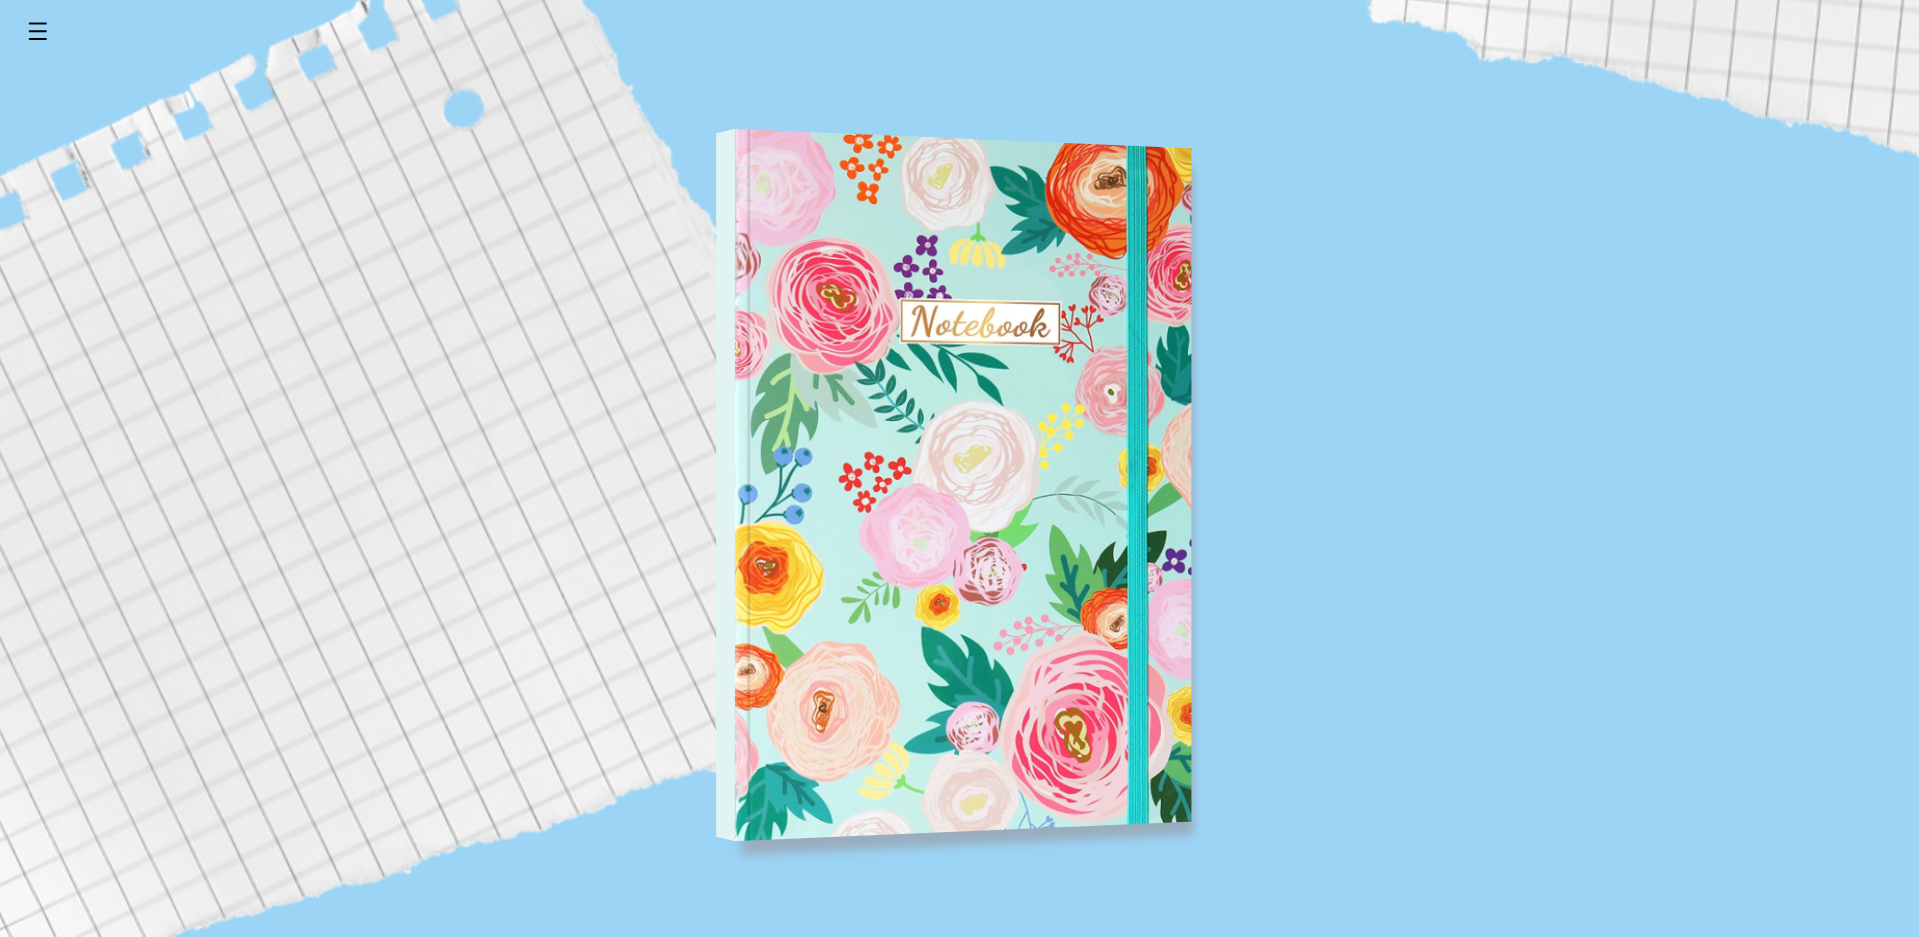
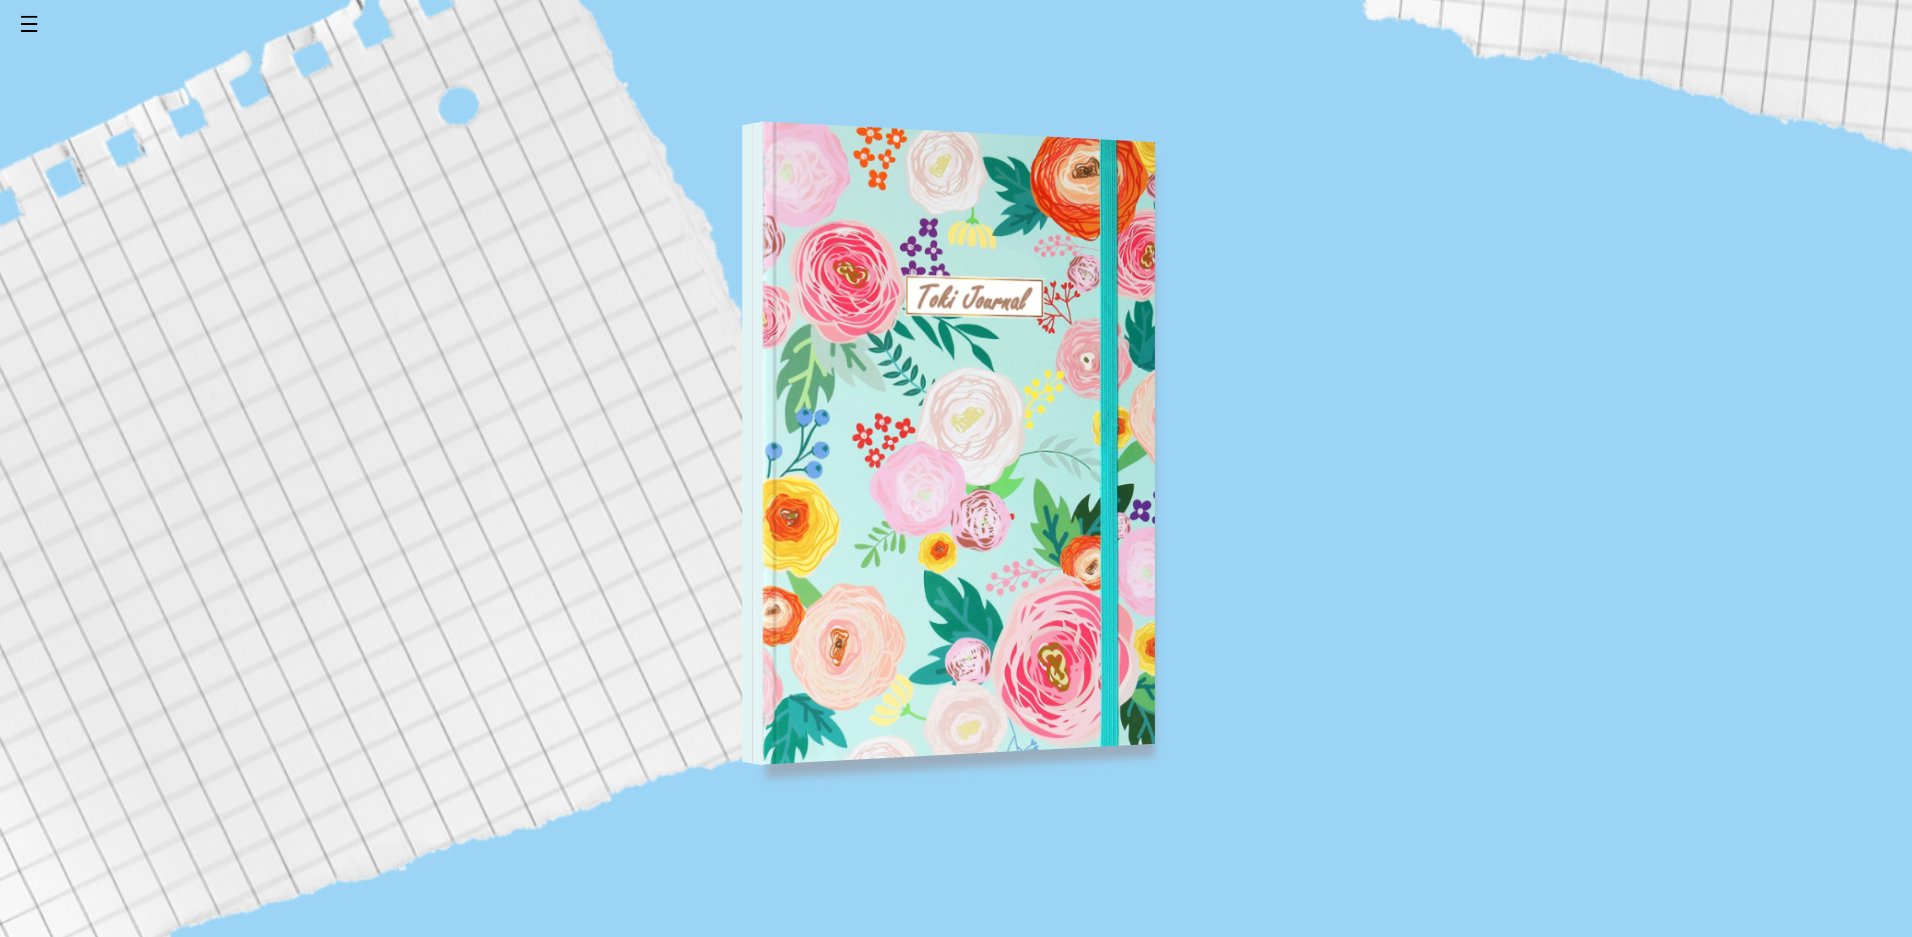
Last polishes (#100)
* fixed selectors on daily log test

* updated journal and readme

* update onboarding

diff --git a/public/__tests__/dailyLog.test.js b/public/__tests__/dailyLog.test.js
@@ -7,7 +7,7 @@ describe('Test daily log page functionality', () => {
   beforeAll(async() => { 
     await page.goto('http://127.0.0.1:8080/public/dailyLog.html');
   });
-/*
+
     // Click add bullet button to have bullets should in window 
     it('Test 1: should click on add bullet button and have bullets appear in window', async () => {
       await page.waitForSelector("#monContainer");
@@ -16,82 +16,82 @@ describe('Test daily log page functionality', () => {
         document.querySelector("#mon-add").click();
         document.querySelector("#mon-add").click();
         document.querySelector("#mon-add").click();
-        return document.querySelector("#mon > ul").children.length;
+        return document.querySelector("#mon > div > ul").children.length;
       });
       expect(numEntries).toBe(4);
     }, 20000);
 
     // Click trash icon to have bullet removed from window 
     it('Test 2: should click on trash icon to have bullet removed', async () => {
-      await page.waitForSelector("#mon > ul > div:nth-child(1) > li");
+      await page.waitForSelector("#mon > div > ul > div:nth-child(1) > li");
       let numEntries = await page.evaluate(() => {
         document.querySelector("#myDropDown > img.deleteImage").click();
         //return document.querySelector("#single-day > div.bigDayContent > h1").textContent;
-        return document.querySelector("#mon > ul").children.length;
+        return document.querySelector("#mon > div > ul").children.length;
       });
       expect(numEntries).toBe(3);
     }, 20000);
     
     // Click event (bookmark) icon to have bullet image changed in window 
     it('Test 3: should click on bookmark icon and have bullet changed', async () => {
-      await page.waitForSelector("#mon > ul > div:nth-child(1) > li");
+      await page.waitForSelector("#mon > div > ul > div:nth-child(1) > li");
       let entry = await page.evaluate(() => {
         document.querySelector("#myDropDown > img.eventImage").click();
         //return document.querySelector("#single-day > div.bigDayContent > h1").textContent;
-        return document.querySelector("#mon > ul > div:nth-child(1) > li").className;
+        return document.querySelector("#mon > div > ul > div:nth-child(1) > li").className;
       });
       expect(entry).toBe("event-list");
     }, 20000);
     
     // Click important (folder) icon to have bullet image changed in window 
     it('Test 4: should click on folder icon and have bullet changed', async () => {
-      await page.waitForSelector("#mon > ul > div:nth-child(1) > li");
+      await page.waitForSelector("#mon > div > ul > div:nth-child(1) > li");
       let entry = await page.evaluate(() => {
         document.querySelector("#myDropDown > img.importantImage").click();
-        return document.querySelector("#mon > ul > div:nth-child(1) > li").className;
+        return document.querySelector("#mon > div > ul > div:nth-child(1) > li").className;
       });
       expect(entry).toBe("important-list");
     }, 20000);
     
     // Click isnpiration (star) icon to have bullet image changed in window    
     it('Test 5: should click on star icon and have bullet changed', async () => {
-      await page.waitForSelector("#mon > ul > div:nth-child(1) > li");
+      await page.waitForSelector("#mon > div > ul > div:nth-child(1) > li");
       let entry = await page.evaluate(() => {
         document.querySelector("#myDropDown > img.inspirationImage").click();
-        return document.querySelector("#mon > ul > div:nth-child(1) > li").className;
+        return document.querySelector("#mon > div > ul > div:nth-child(1) > li").className;
       });
       expect(entry).toBe("inspiration-list");
     }, 20000);
     
     // Click event icon to have bullet image changed in window 
     it('Test 6: should click on event icon and have bullet changed', async () => {
-      await page.waitForSelector("#mon > ul > div:nth-child(1) > li");
+      await page.waitForSelector("#mon > div > ul > div:nth-child(1) > li");
       let entry = await page.evaluate(() => {
         document.querySelector("#myDropDown > img.eventImage").click();
         //return document.querySelector("#single-day > div.bigDayContent > h1").textContent;
-        return document.querySelector("#mon > ul > div:nth-child(1) > li").className;
+        return document.querySelector("#mon > div > ul > div:nth-child(1) > li").className;
       });
       expect(entry).toBe("event-list");
     }, 20000);
     
     // Click note (box) icon to have bullet image changed in window 
     it('Test 7: should click on box icon and have bullet changed', async () => {
-      await page.waitForSelector("#mon > ul > div:nth-child(1) > li");
+      await page.waitForSelector("#mon > div > ul > div:nth-child(1) > li");
       let entry = await page.evaluate(() => {
         document.querySelector("#myDropDown > img.noteImage").click();
         //return document.querySelector("#single-day > div.bigDayContent > h1").textContent;
-        return document.querySelector("#mon > ul > div:nth-child(1) > li").className;
+        return document.querySelector("#mon > div > ul > div:nth-child(1) > li").className;
       });
       expect(entry).toBe("note-list");
     }, 20000);
     
     // Click checkmark icon to show bullet marked as completed
     it('Test 8: should click on checkmark icon and have bullet changed', async () => {
-      await page.waitForSelector("#mon > ul > div:nth-child(1) > li");
+      await page.waitForSelector("#mon > div > ul > div:nth-child(1) > li");
       let entry = await page.evaluate(() => {
         document.querySelector("#myDropDown > img.checkMarkImage").click();
         //return document.querySelector("#single-day > div.bigDayContent > h1").textContent;
-        return document.querySelector("#mon > ul > div:nth-child(1) > li").className;
+        return document.querySelector("#mon > div >ul > div:nth-child(1) > li").className;
       });
       expect(entry).toBe("checkMark-list");
     }, 20000);      
@@ -101,7 +101,7 @@ describe('Test daily log page functionality', () => {
       await page.waitForSelector("#monContainer");
       let entry = await page.evaluate(() => {
         //document.querySelector("#mon-add").click();
-        return document.querySelector("#mon > ul > div:nth-child(1) > li").textContent;
+        return document.querySelector("#mon > div > ul > div:nth-child(1) > li").textContent;
       });
       expect(entry).toBe("ADD ENTRY");
     }, 20000);
@@ -111,7 +111,7 @@ describe('Test daily log page functionality', () => {
       await page.waitForSelector("#monContainer");
       let entry = await page.evaluate(() => {
         //document.querySelector("#mon-add").click();
-        return document.querySelector("#mon > ul > div:nth-child(1) > li").contentEditable;
+        return document.querySelector("#mon > div > ul > div:nth-child(1) > li").contentEditable;
       });
       expect(entry).toBe("true");
     }, 20000);    
@@ -135,7 +135,7 @@ describe('Test daily log page functionality', () => {
       });
       expect(day).toBe('Wednesday');
     }, 20000);
-    */
+    
     // Click on Fridayday and should appear as header on left window
     it('Test 13: should click Friday and have it appear on left window', async () => {
       await page.waitForSelector("#friContainer > h2");

diff --git a/README.md b/README.md
@@ -3,7 +3,7 @@
 ## Table of Contents
 
 [Overview](#overview)  
-[BuJo](#bujo)  
+[Toki Journal](#toki-journal)  
 [Local Development](#local-development)  
 [Build and Deployment](#build-and-deployment)  
 [Testing](#testing)  
@@ -23,9 +23,9 @@ The core utilities of bullet journals are:
 - **collections** (organizing information by content)
 - **migration** (periodically updating lists to new lists)
 
-## BuJo
+## Toki Journal
 
-Our product took these core features and developed an application for students focused around the theme of personalization. Further details on the features and functionality of our product can be found [here](admin/onboard.md).
+Our product, Toki Journal, took these core features and developed an application for students focused around the theme of personalization. Further details on the features and functionality of our product can be found [here](admin/onboard.md).
 
 ## Local Development
 
